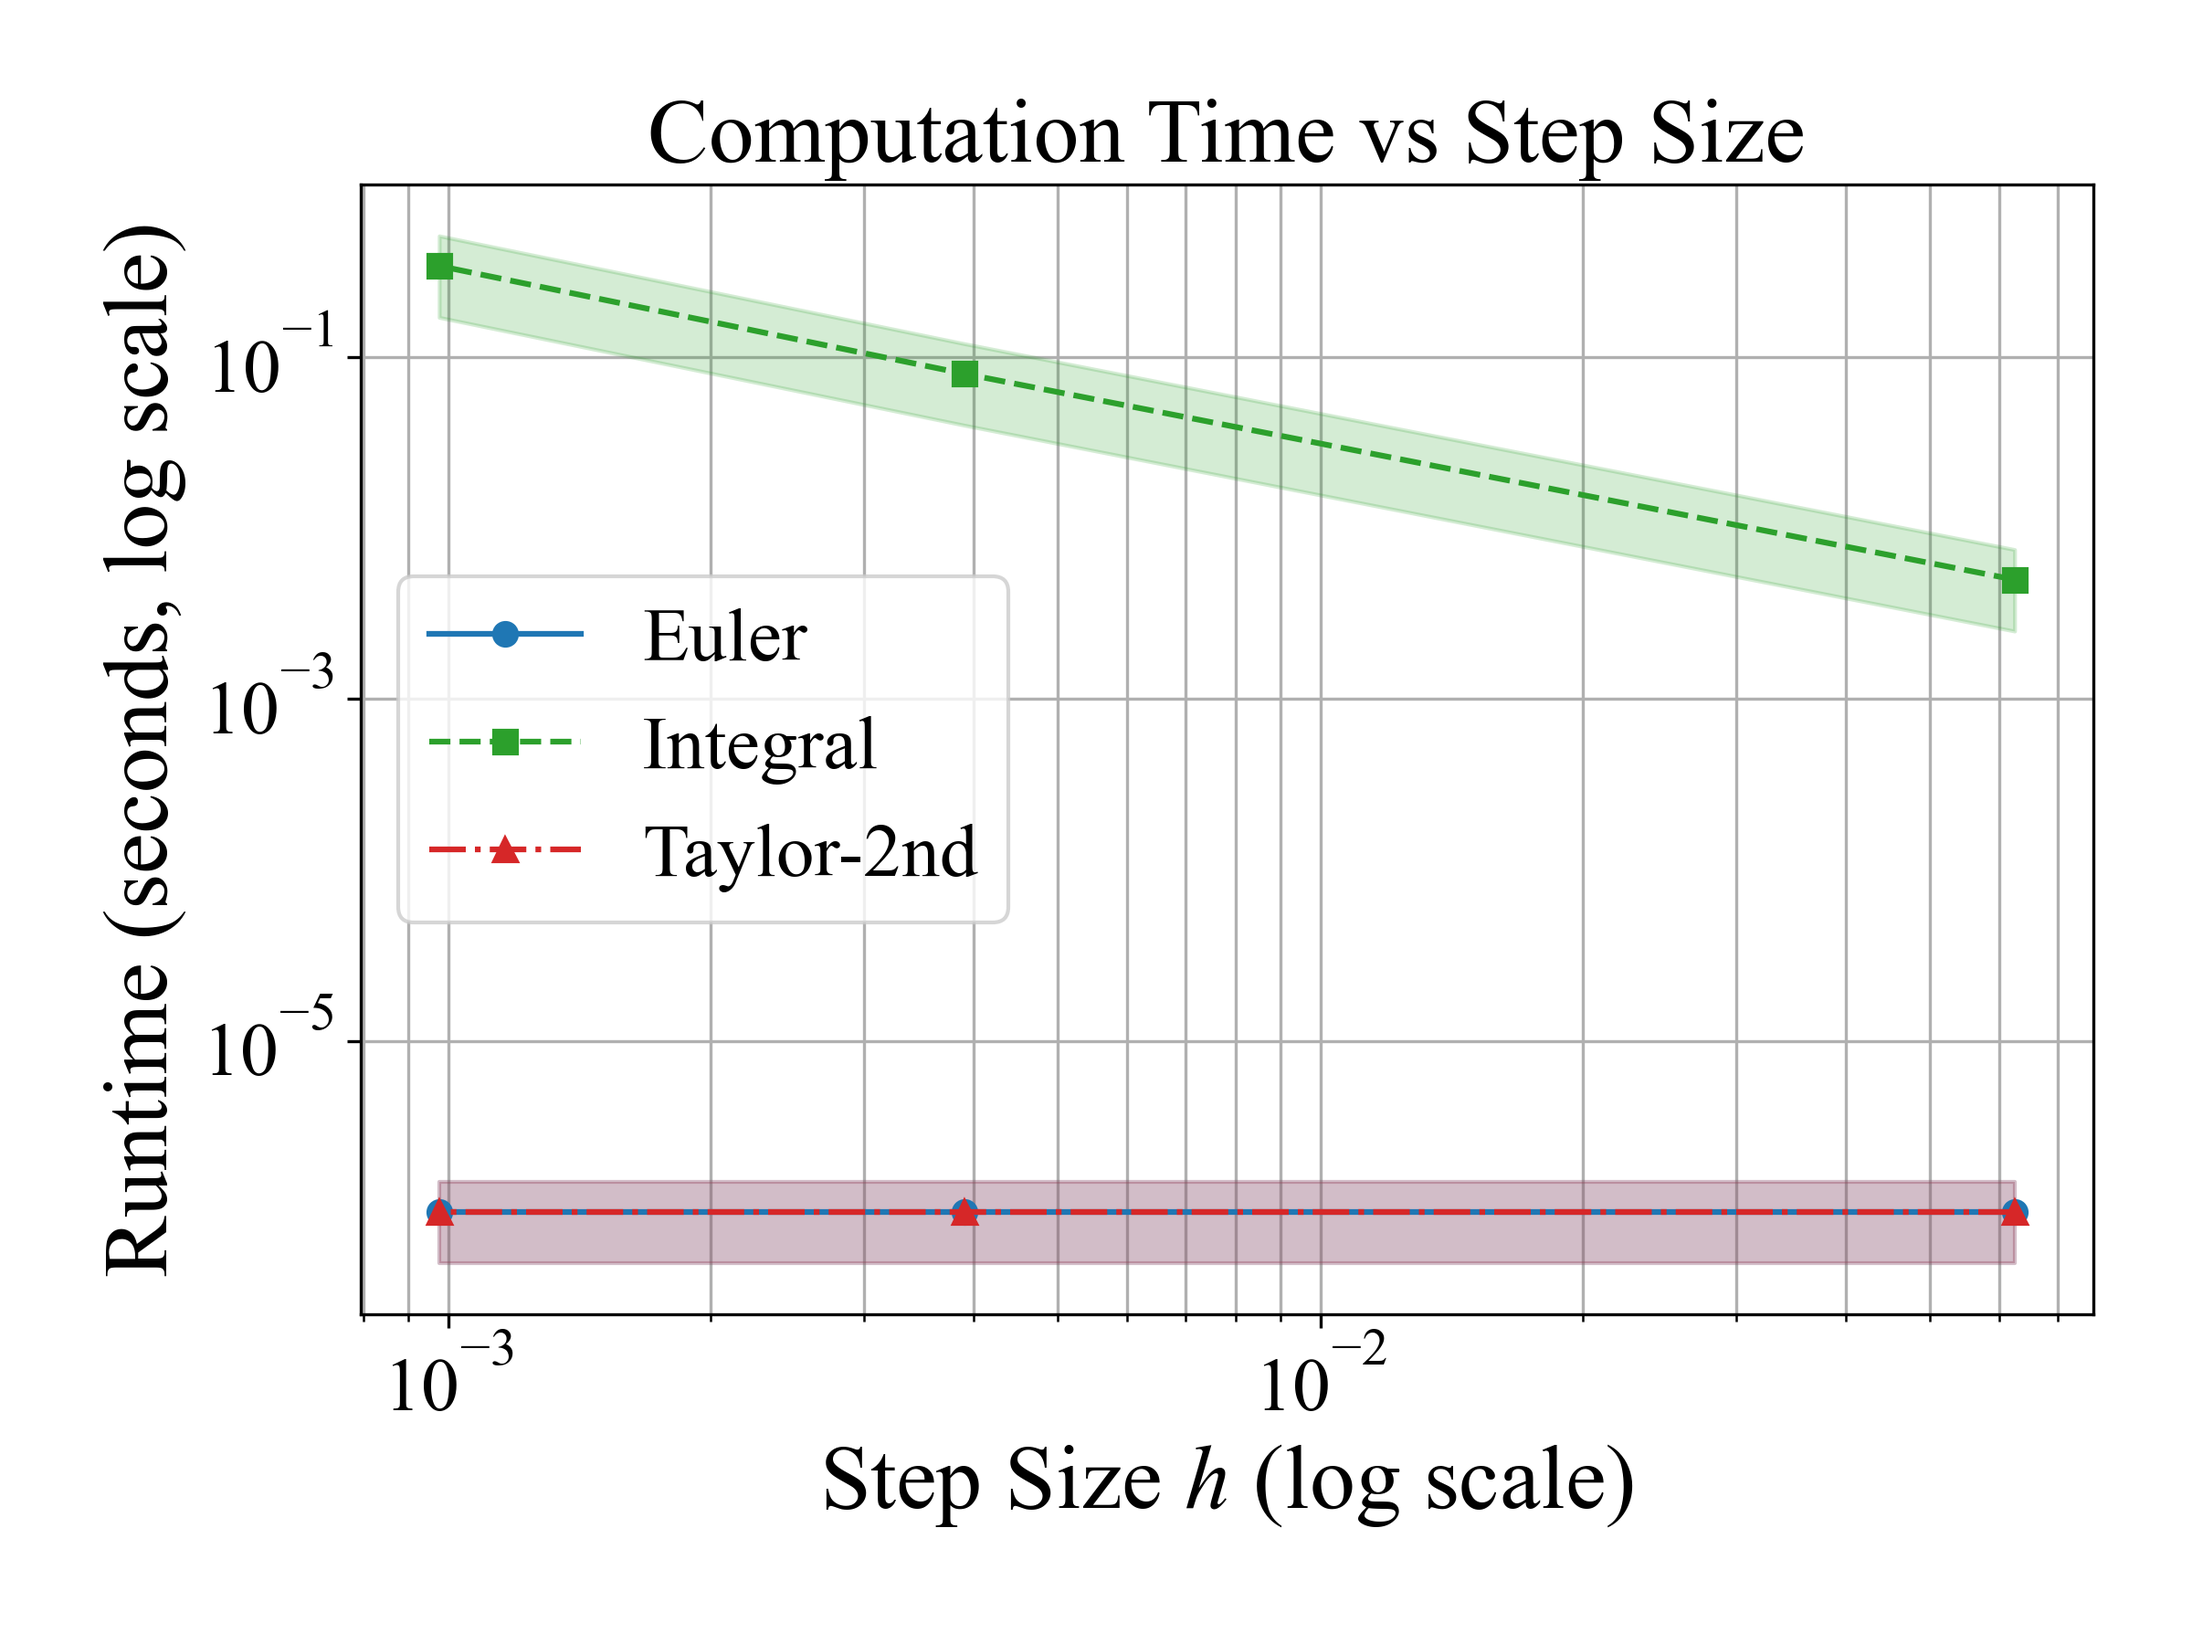
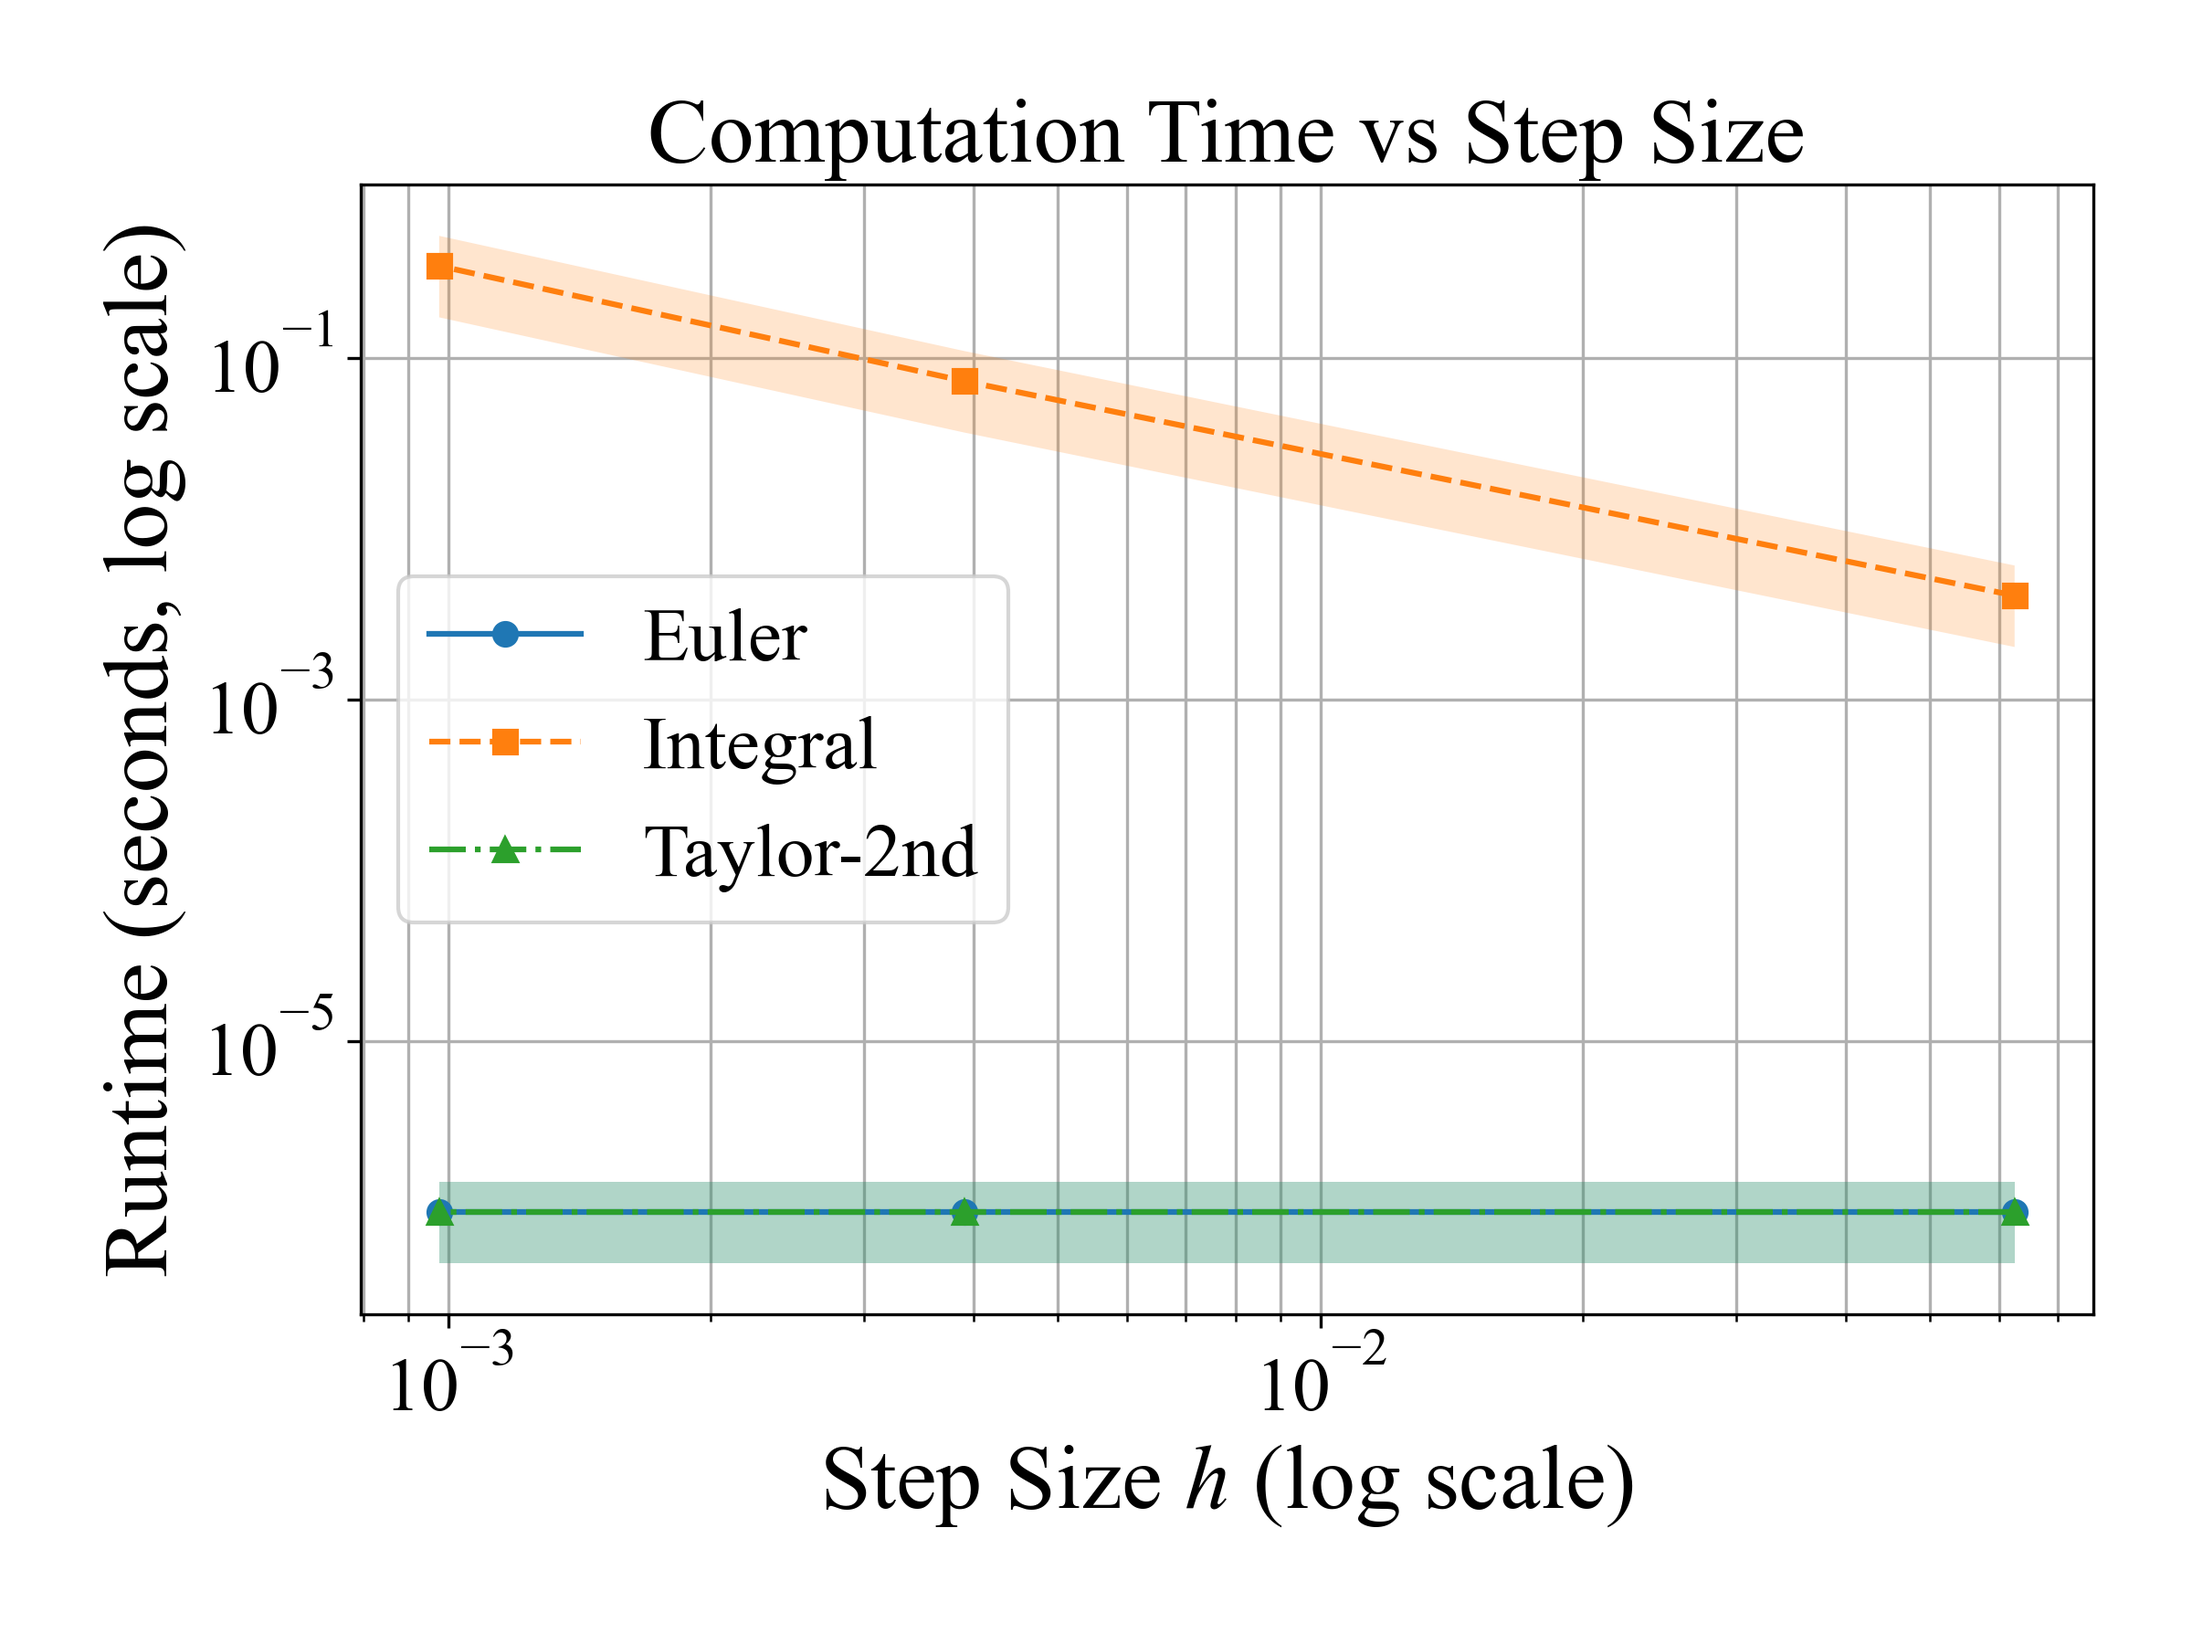
[Update]:example 1

diff --git a/ch2/example1/example1.py b/ch2/example1/example1.py
@@ -258,8 +258,8 @@ for method in methods:
     plt.plot(h_vals, y,
              marker=markers[method],
              linestyle=linestyles[method],
+             zorder=3,
              label=f'{method}')
-    # 添加置信区间：±50%
     plt.fill_between(h_vals, y * 0.5, y * 1.5, alpha=0.2)
 
 plt.xscale('log')
@@ -279,12 +279,10 @@ for method in methods:
     plt.plot(h_vals, y,
              marker=markers[method],
              linestyle=linestyles[method],
-             color=color,
              zorder=3,
              label=f'{method}')
     plt.fill_between(h_vals,
                      y * 0.5, y * 1.5,
-                     color=color,
                      alpha=0.2,
                      zorder=2)
 
